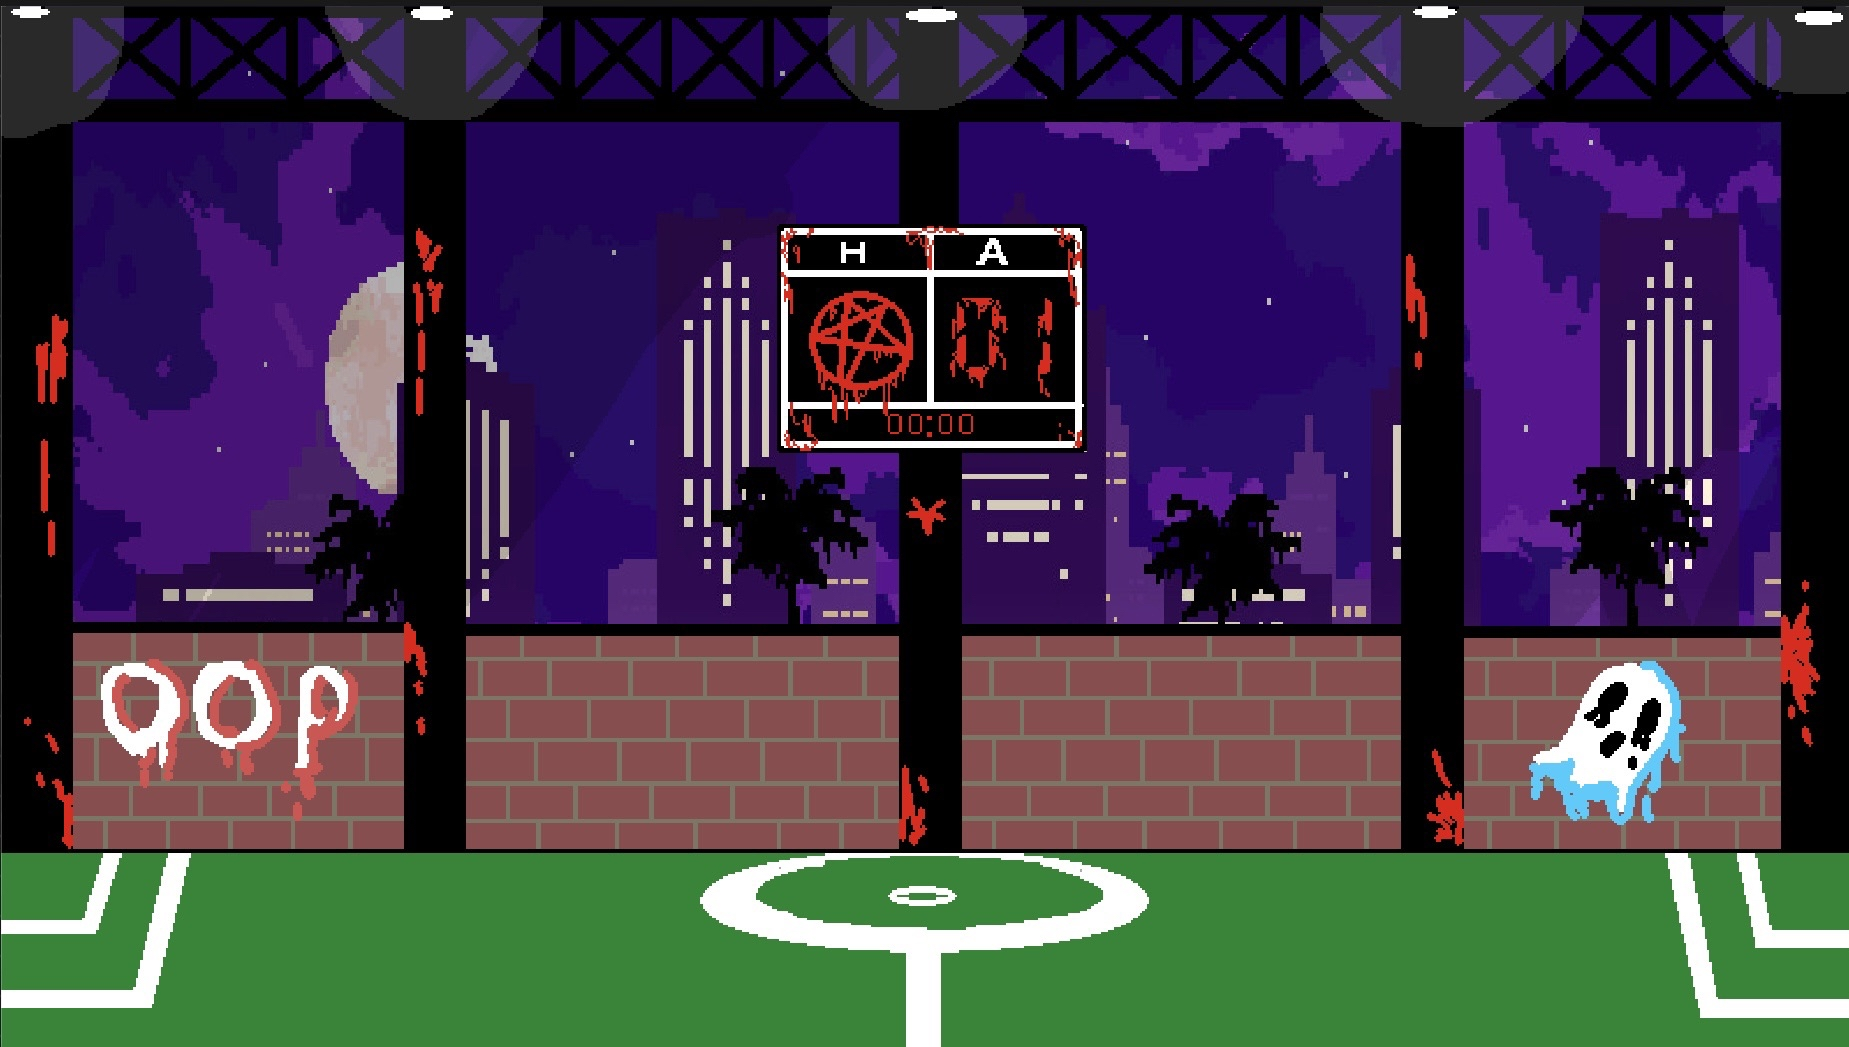
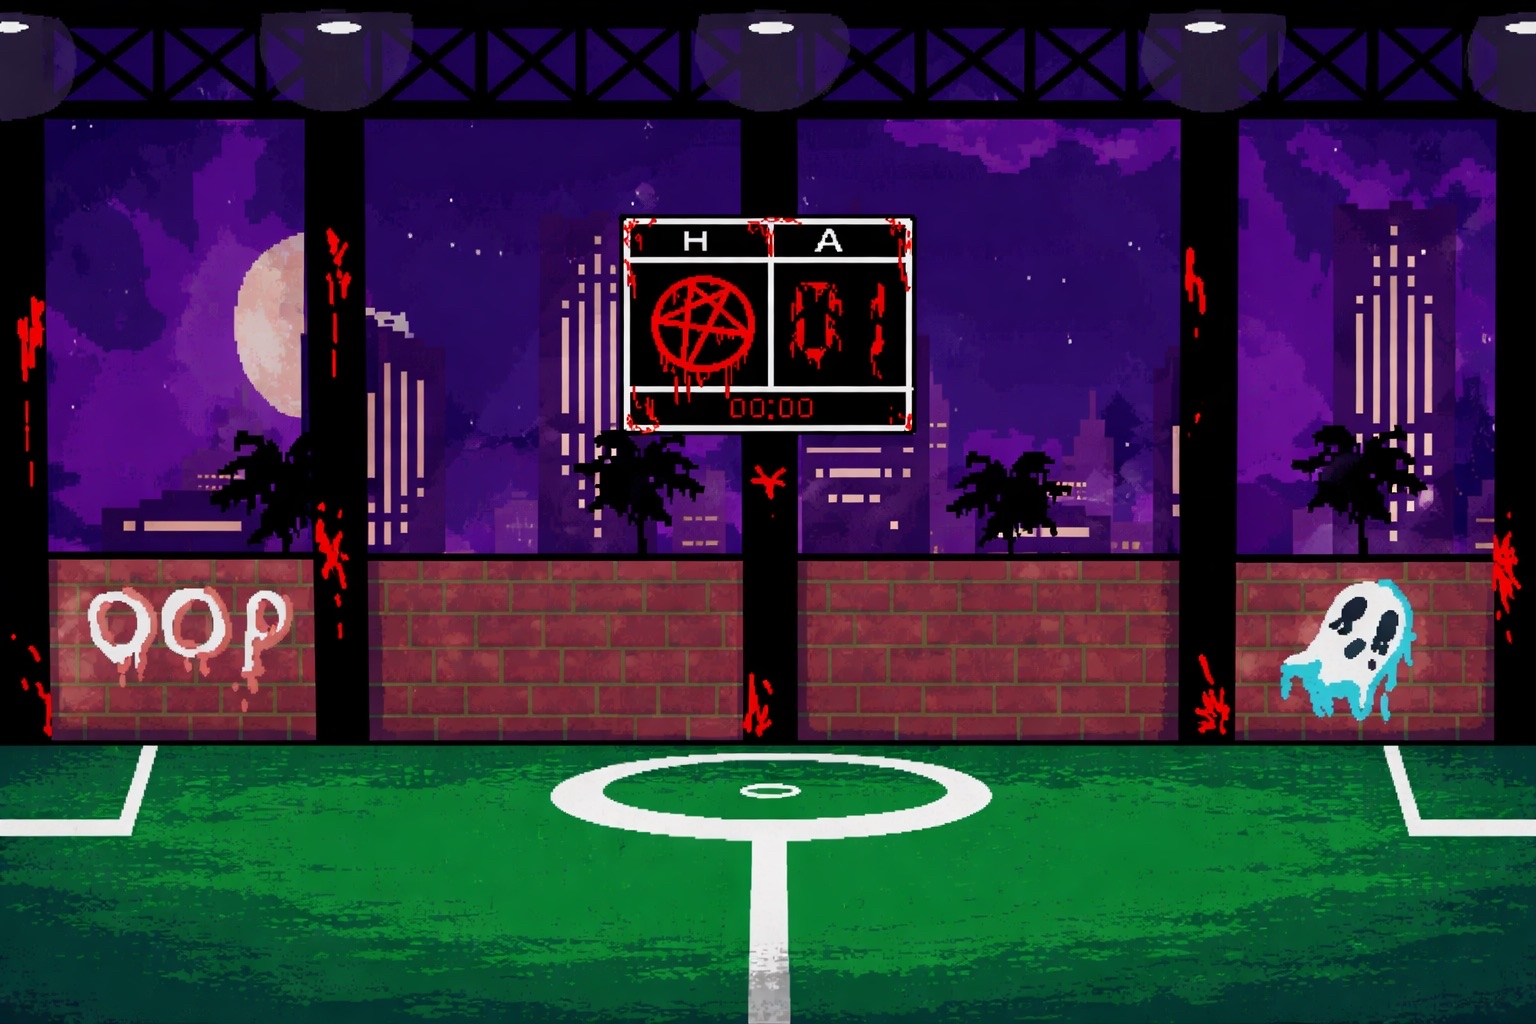
stage2,3 bg change
changed background of stage 2 and 3 to retouched one

diff --git a/src/DEVAPI/Level3LoaderScript.java b/src/DEVAPI/Level3LoaderScript.java
@@ -30,11 +30,11 @@ import java.awt.event.KeyEvent;
  * @author asiau
  */
 public class Level3LoaderScript extends ScriptSheet implements InputListener {
-    public String floorImage = "res/GameAssets/Textures/Grass1.jpg";
-    public String wallImage = "res/GameAssets/Textures/Cobblestone.png";
-    public String shelfImage = "res/GameAssets/Textures/Shelf.jpg";
-    public String platformImage = "res/GameAssets/Textures/Platform.png";
-    public String ladderImage = "res/GameAssets/Textures/Ladder.png";
+    public String floorImage = "res/GameAssets/Textures/Blank.png";
+    public String wallImage = "res/GameAssets/Textures/Blank.png";
+    public String shelfImage = "res/GameAssets/Textures/Blank.png";
+    public String platformImage = "res/GameAssets/Textures/Blank.png";
+    public String ladderImage = "res/GameAssets/Textures/Blank.png";
     public KinematicObject player;
     public KinematicObject ball;
     public boolean setSize = false;

diff --git a/src/DEVAPI/Main.java b/src/DEVAPI/Main.java
@@ -13,9 +13,9 @@ public class Main implements Runnable {
     public void initialize() {
         //GameUniverse.createInstance(new DebugLevelLoaderScript("DebugLevelLoaderScript"));
         //GameUniverse.createInstance(new LevelTutorialLoaderScript("LevelTutorialLoaderScript"));
-        GameUniverse.createInstance(new Level1LoaderScript("Level1LoaderScript")); 
+        //GameUniverse.createInstance(new Level1LoaderScript("Level1LoaderScript")); 
         //GameUniverse.createInstance(new Level2LoaderScript("Level2LoaderScript"));
-        //GameUniverse.createInstance(new Level3LoaderScript("Level3LoaderScript"));
+        GameUniverse.createInstance(new Level3LoaderScript("Level3LoaderScript"));
     }
     
     
